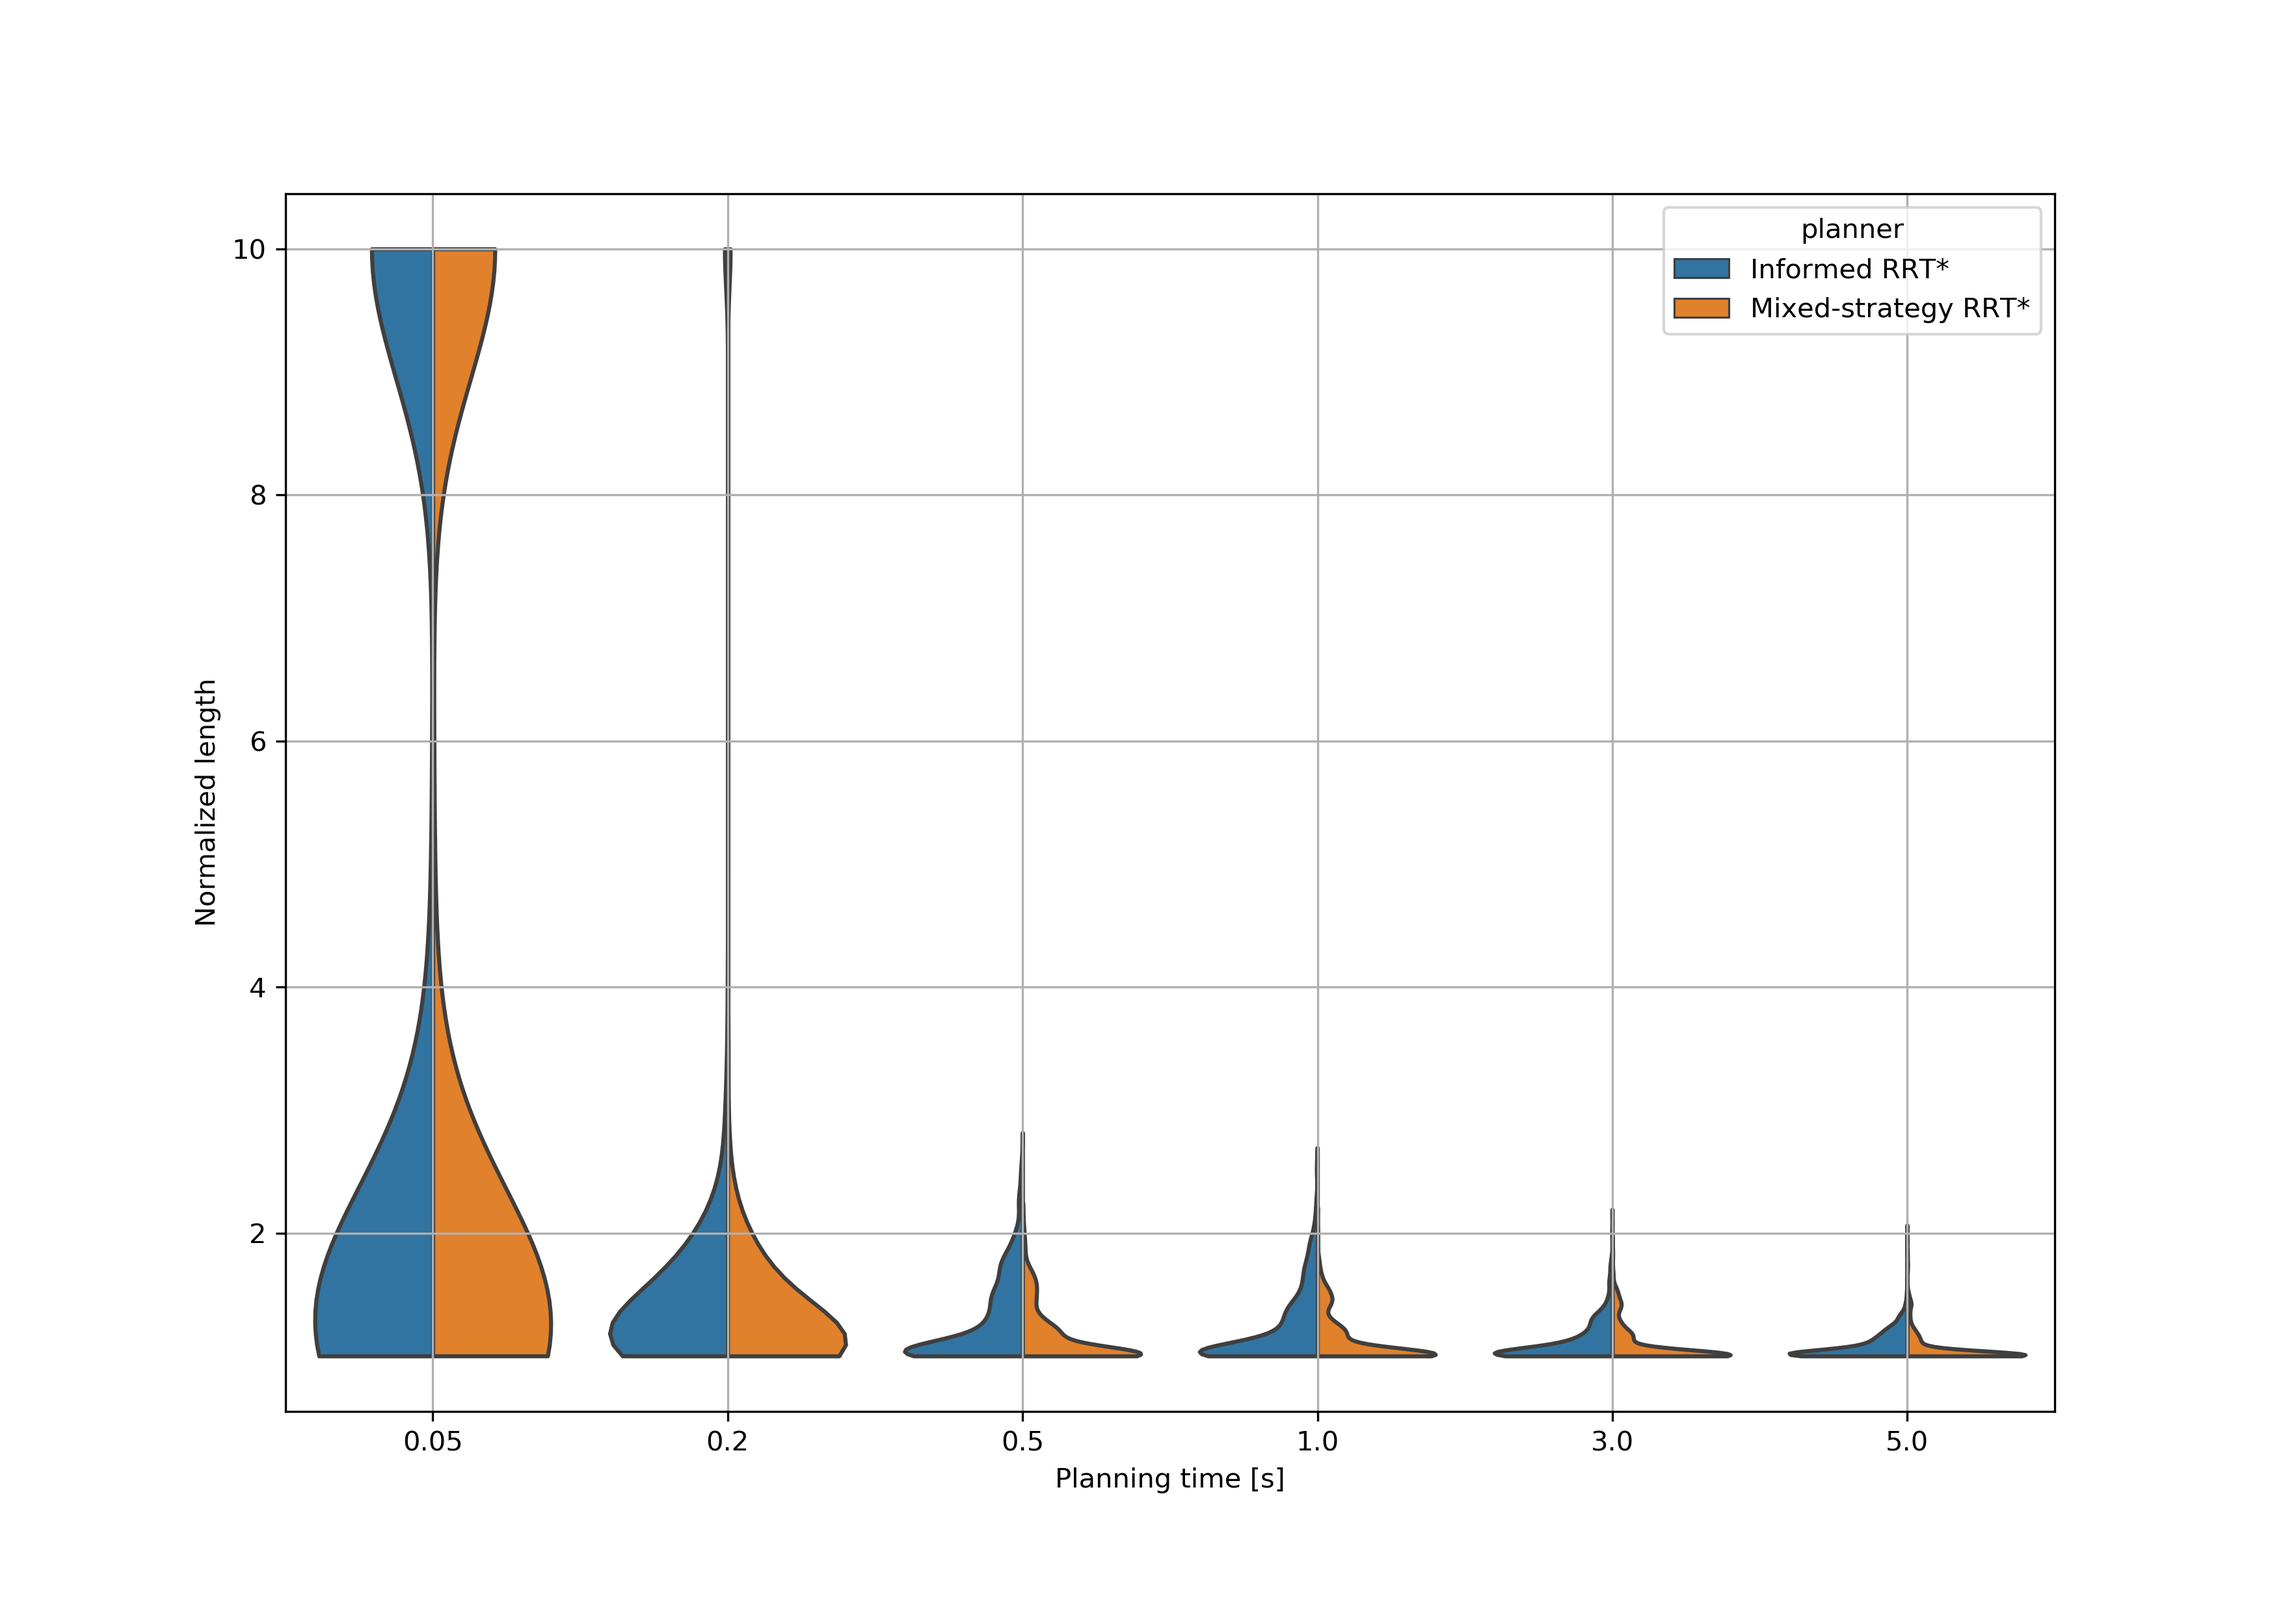
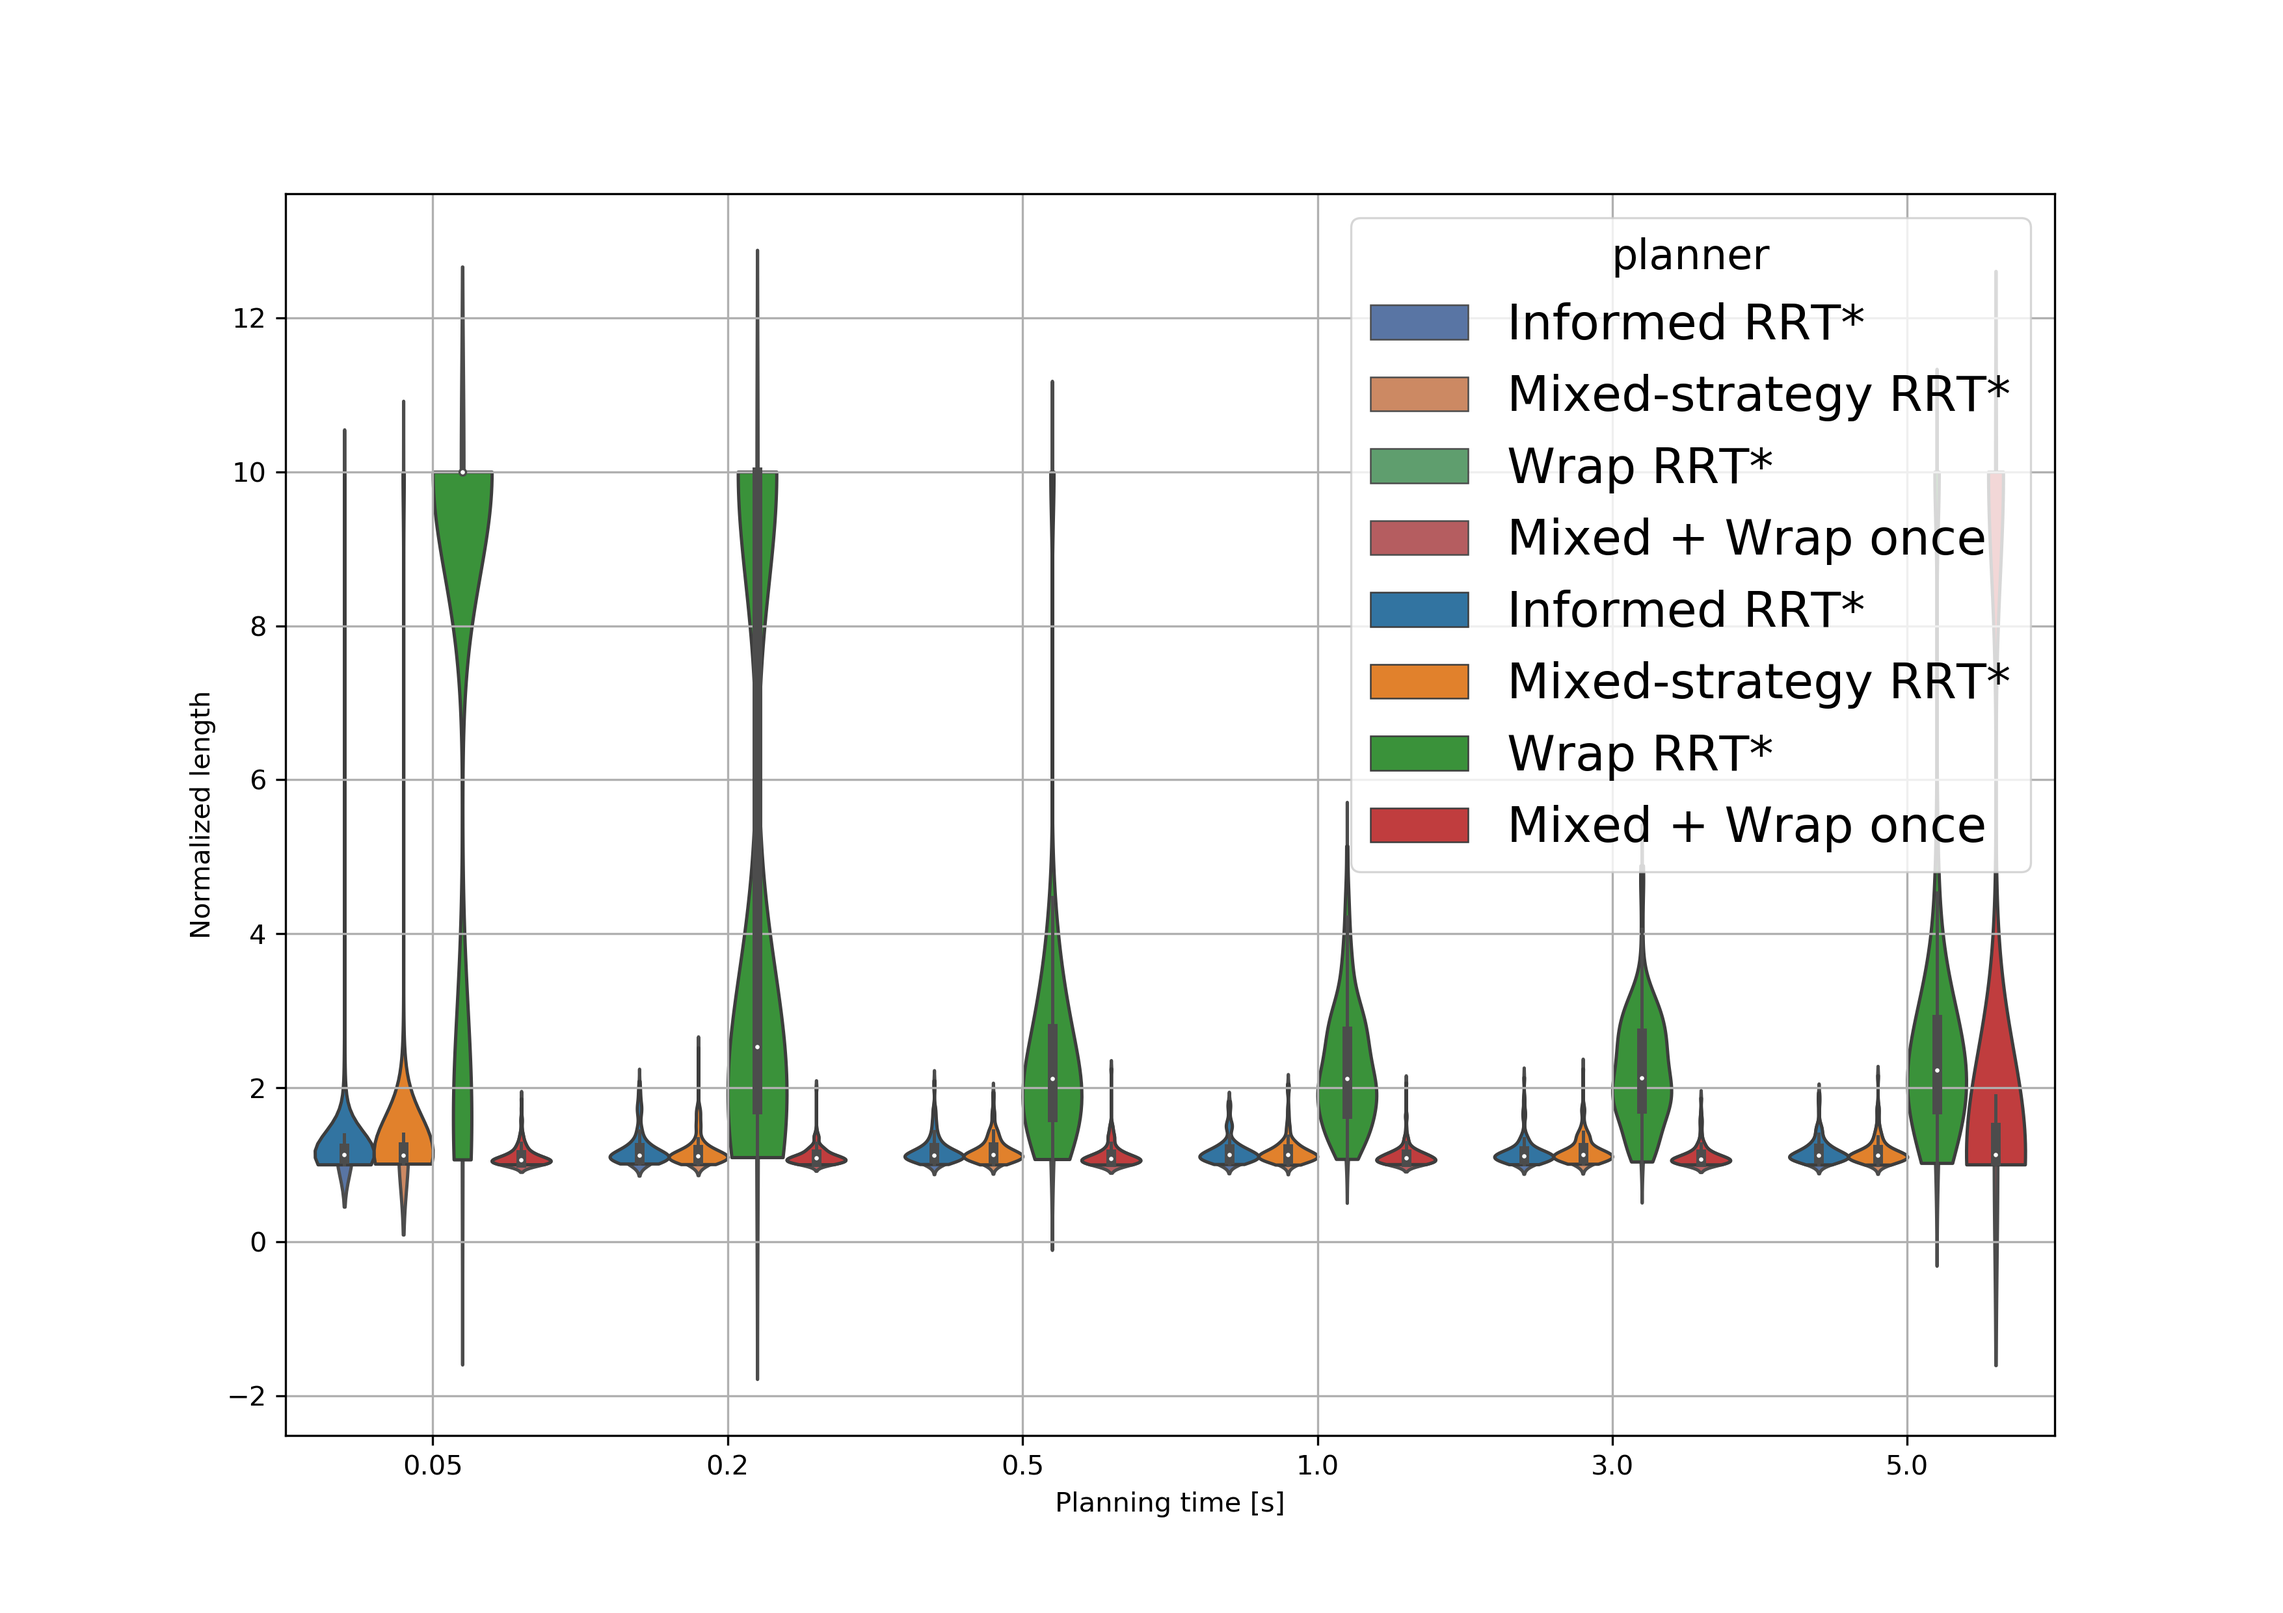
benchmark

Changed region(s): [[0.0932, 0.1241, 0.9006, 0.9311], [0.0621, 0.4345, 0.0932, 0.5586], [0.4348, 0.2793, 0.4658, 0.3104]]

diff --git a/scripts/view_results.py b/scripts/view_results.py
@@ -44,8 +44,9 @@ for dof in [6]: #[6, 9,12,18]:
     #tested_planners=tested_planners[0:2]
     #planner_name=["Informed RRT*","Mixed-strategy RRT*"]
 
-    tested_planners=tested_planners[0:3]
-    planner_name=["Informed RRT*","Mixed-strategy RRT*","Wrap RRT*",]
+    tested_planners=tested_planners[0:4]
+    planner_name=["Informed RRT*","Mixed-strategy RRT*","Wrap RRT*","Mixed + Wrap once"]
+    #planner_name=["Informed RRT*","Mixed-strategy RRT*","Wrap RRT*",]
 
     for iquery in range(0,queries_number):
         query_str="query_"+str(iquery)
@@ -59,6 +60,7 @@ for dof in [6]: #[6, 9,12,18]:
         for iplanner in range(0,len(tested_planners)):
             pipeline=tested_planners[iplanner][0]
             planner=tested_planners[iplanner][1]
+
             for iplan_time in range(0,len(planning_times)):
                 planning_time=planning_times[iplan_time]
                 planning_time_string='planning_time_ms_'+str(int(1000*planning_time))
@@ -90,15 +92,24 @@ for dof in [6]: #[6, 9,12,18]:
 
     a4_dims = (11.7, 8.27)
     db1=pd.DataFrame(cost_over_time)
-    sel_planning_times=[0.05,0.2,0.5,1,3,5]
+    sel_planning_times=[0.05,0.2,0.5,1,3,5,10]
     db2=db1.loc[db1['Planning time [s]'].isin(sel_planning_times),:]
-    #fig, ax = plt.subplots(figsize=a4_dims);
-    #seaborn.violinplot(x="Planning time [s]",y="Normalized length",hue="planner",data=db2,split=True, inner=None,cut=False,scale="width")
-    #plt.grid()
-    #fig.savefig("violin_dof"+str(dof)+".png",dpi=300)
+
+    # fig, ax = plt.subplots(figsize=a4_dims);
+    # seaborn.set_context("paper", rc={"font.size":18,"axes.titlesize":18,"axes.labelsize":18,"legend.fontsize":18, "xtick.labelsize": 18, "ytick.labelsize":18})
+    # g=seaborn.violinplot(hue="planner",y="Normalized length",data=db2,x="Planning time [s]", palette="deep")
+    # seaborn.violinplot(x="Planning time [s]",y="Normalized length",hue="planner",data=db2, inner=None,cut=False,scale="width")
+    # plt.grid()
+    # fig.savefig("violin_dof"+str(dof)+".png",dpi=300)
 
     fig, ax = plt.subplots(figsize=a4_dims);
     seaborn.set_context("paper", rc={"font.size":18,"axes.titlesize":18,"axes.labelsize":18,"legend.fontsize":18, "xtick.labelsize": 18, "ytick.labelsize":18})
     g=seaborn.boxenplot(hue="planner",y="Normalized length",data=db2,x="Planning time [s]", palette="deep")
     g.grid()
     fig.savefig("boxen_dof"+str(dof)+".png",dpi=300, bbox_inches = 'tight')
+
+    fig, ax = plt.subplots(figsize=a4_dims);
+    seaborn.set_context("paper", rc={"font.size":18,"axes.titlesize":18,"axes.labelsize":18,"legend.fontsize":18, "xtick.labelsize": 18, "ytick.labelsize":18})
+    g=seaborn.boxplot(hue="planner",y="Normalized length",data=db2,x="Planning time [s]", palette="deep")
+    g.grid()
+    fig.savefig("box_dof"+str(dof)+".png",dpi=300, bbox_inches = 'tight')

diff --git a/src/run_queries.cpp b/src/run_queries.cpp
@@ -182,7 +182,7 @@ int main(int argc, char **argv)
             int tmp_rep=(pipeline_id=="dirrt")?1:1; // ompl runs 4 thread in parallel
             for (int itmp=0;itmp<tmp_rep;itmp++)
             {
-              moveit::planning_interface::MoveItErrorCode plan_exit_code = move_group.plan(plan);
+              moveit::core::MoveItErrorCode plan_exit_code = move_group.plan(plan);
               std::string result_prefix=query_test+"/query_"+std::to_string(actual_query_number)+"/"+pipeline_id+"/"+planner_id+"/iteration_"+std::to_string(repetition)+"/planning_time_ms_"+std::to_string((int)(1000.0*planning_time));
 
               bool improved=false;
